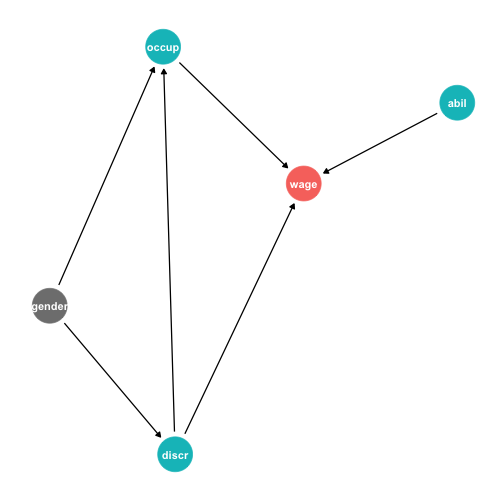
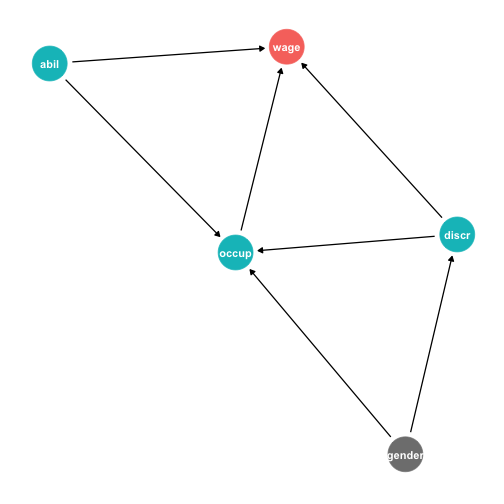
Fix gender example in slides 17

diff --git a/static/slides/17-slides.html b/static/slides/17-slides.html
@@ -1169,11 +1169,11 @@ class: inverse, center, middle
 .content-box-green[
 .green[**Example**]: How much of wage disparities are caused by gender-based discrimination?
 
-1. `\(gender \rightarrow discr \rightarrow wage\)` (Causal path)
-2. `\(gender \rightarrow discr \rightarrow occup \rightarrow wage\)` (Causal path)
+1. `\(discr \rightarrow wage\)` (Causal path)
+2. `\(discr \rightarrow occup \rightarrow wage\)` (Causal path)
 3. `\(discr \leftarrow gender \rightarrow occup \rightarrow wage\)` (Open back door)
 4. `\(discr \leftarrow gender \rightarrow occup \leftarrow abil \rightarrow wage\)` (BLOCKED back door!)
-5. `\(gender \rightarrow discrim \rightarrow occup \leftarrow abil \rightarrow wage\)` (BLOCKED back door!)
+5. `\(discr \rightarrow occup \leftarrow abil \rightarrow wage\)` (BLOCKED back door!)
 
 - Should we control for `occup`?
 ] 
@@ -1188,18 +1188,17 @@ class: inverse, center, middle
 
 ---
 
-# Collider Example: Gender Discrimination I
+# Collider Example: Gender Discrimination II
 
 .pull-left[
-
-- If leave occupation uncontrolled for: ignore non-discriminatory reasons different genders choose different occupations
 
 - If we *control* for occupation:
   - opens backdoor paths 4 &amp; 5!
   - creates spurious `cor(abil,discr)` where there wasn't one!
   - also closes causal path 2! (discriminatory reasons genders choose different occupations)
   
-- **Can't identify causal effect** by controlling for `occup`!
+- **Can't identify causal effect** controlling for `occup`!
+  - *Could* if you could control for `occup` *and* `abil` (but perhaps `abil` is unobserved)
 
 - Research on this needs to get clever!
 
